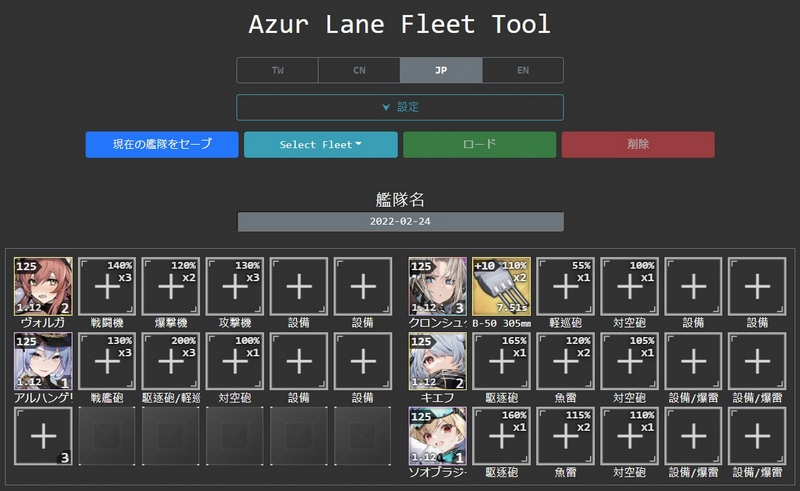
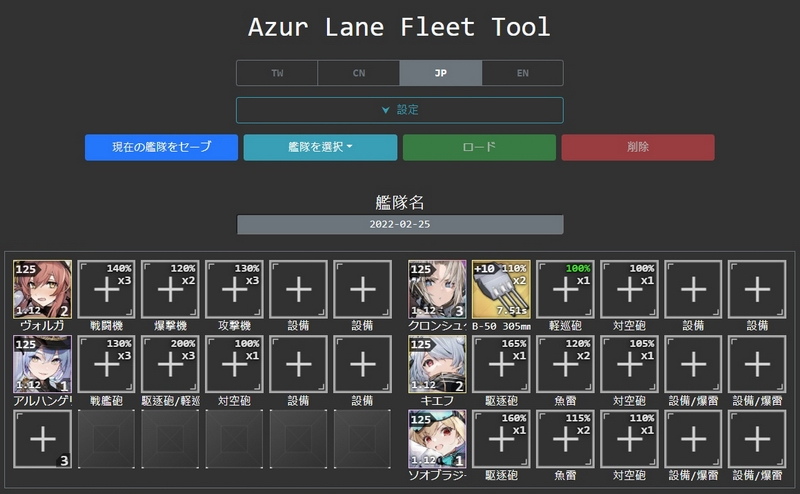
update screenshot

diff --git a/README.md b/README.md
@@ -1,7 +1,7 @@
 # [Azur Lane Fleet Tool](https://x94fujo6rpg.github.io/AzurLaneFleet/)  
 A tool for easily share/manage/simulate/build/make your AzurLane fleet.  
 Generate shareable text codes or links.  
-[![](https://x94fujo6rpg.github.io/AzurLaneFleet/ui/screenshots.jpg?49b18b003f56)](https://x94fujo6rpg.github.io/AzurLaneFleet/)  
+[![](https://x94fujo6rpg.github.io/AzurLaneFleet/ui/screenshots.jpg)](https://x94fujo6rpg.github.io/AzurLaneFleet/)  
 
 - [Azur Lane Fleet Tool](#azur-lane-fleet-tool)
   - [Update](#update)
